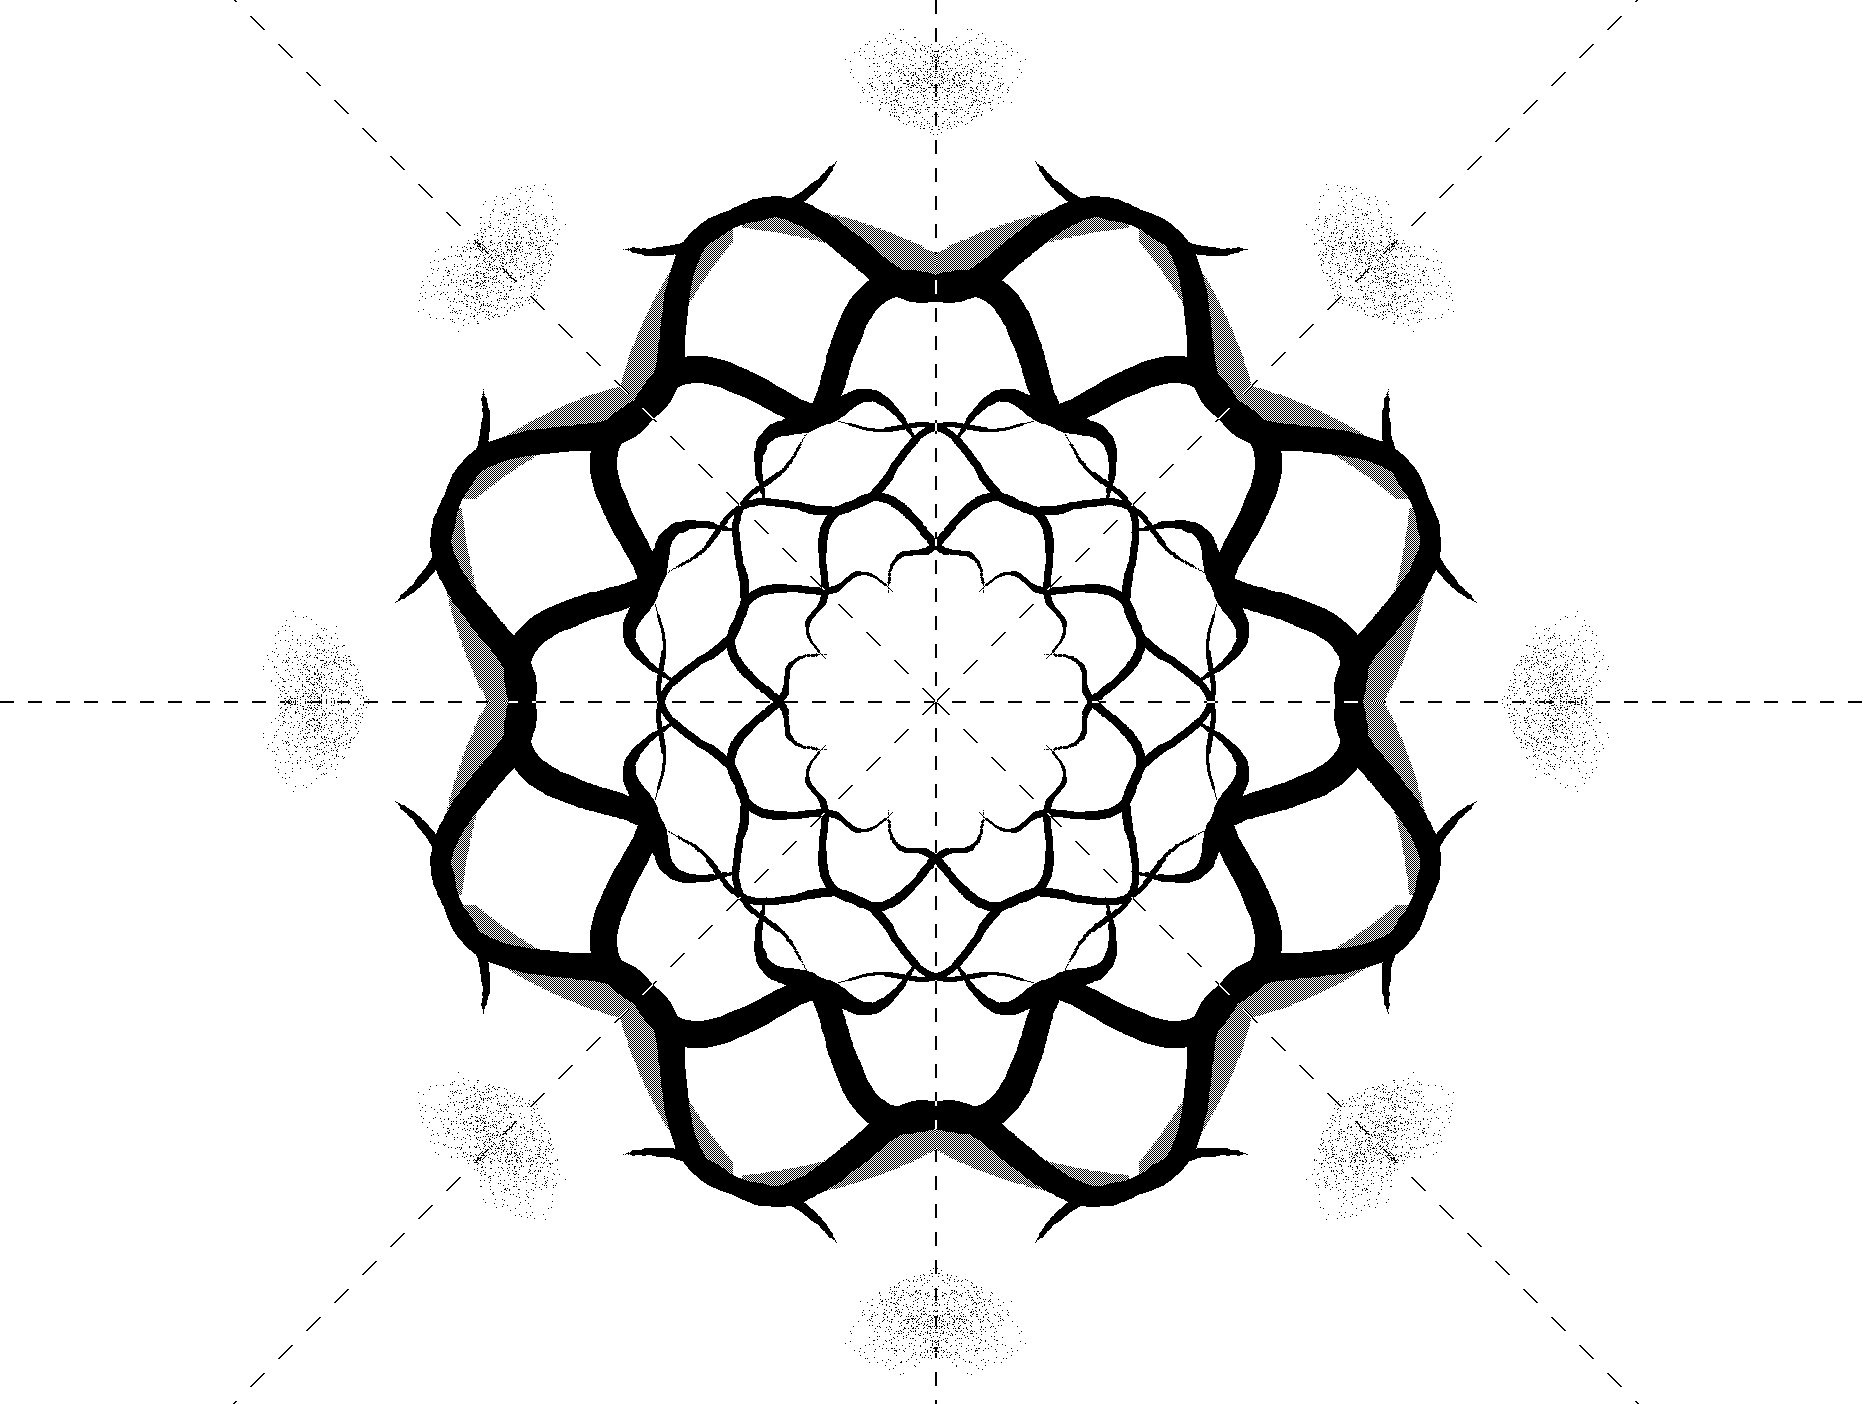
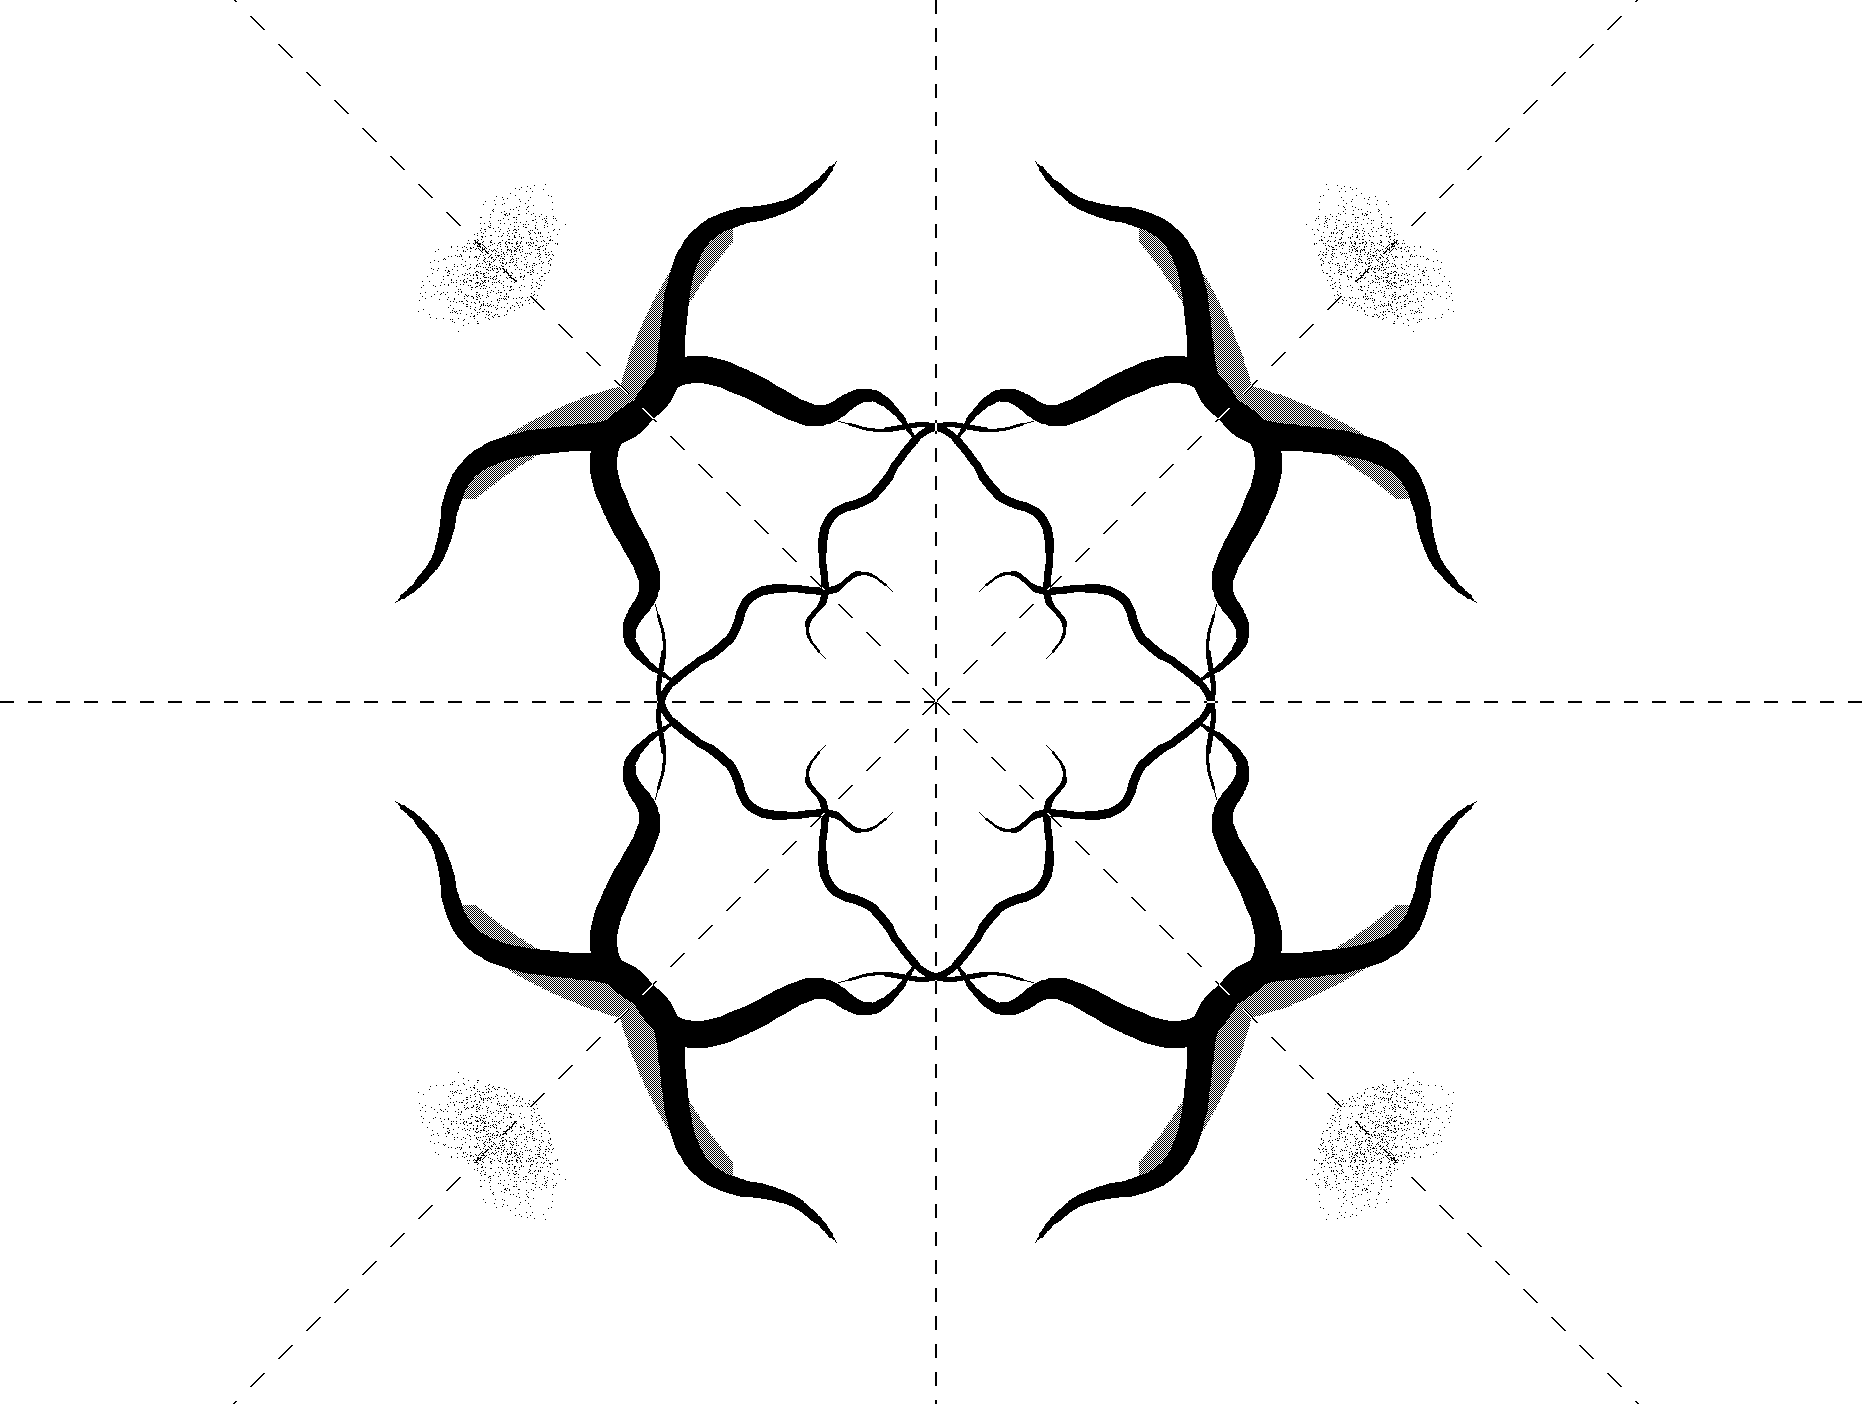
Kaleidoscope: one image in each of the 8 sectors
It drew 16 images (8 turns of 45 degrees, each mirrored), two in every
sector of the guide: a small circle came out twice in its own sector.
Now 4 quarter turns, each mirrored: their mirror lines are the guide's
4 lines, every map is exact (no 45 degree rounding), half the work.

Guard: test_k8_one_per_sector (a point off the lines has exactly one
image per 45 degree sector); seen red on the 16-image code.

diff --git a/test/test_mirror.c b/test/test_mirror.c
@@ -1,6 +1,7 @@
 /* Mirror drawing: the images, one undo step, replay, the screen-only guide, the pushed rectangles, every position of
    the X, the bucket. SPDX-License-Identifier: MIT */
 #include "util.h"
+#include <math.h>
 
 static void settle(rig_t *r)
 {
@@ -83,21 +84,18 @@ static void test_maps(void)
     CHECK(x == 300 && y == TH - 1 - 200);
     mr_map(MR_4, 3, TW, TH, 300, 200, &x, &y);
     CHECK(x == TW - 1 - 300 && y == TH - 1 - 200);
-    for (int img = 0; img < 16; img++) { /* the mirrors are involutions, the quarter turns exact */
+    CHECK(mr_images(MR_K8) == 8);
+    for (int img = 0; img < 8; img++) { /* the mirrors are involutions, the quarter turns exact */
         mr_map(MR_K8, img, TW, TH, 777, 123, &x, &y);
-        if (img == 8) {
+        if (img == 4) {
             mr_map(MR_K8, img, TW, TH, x, y, &x2, &y2);
             CHECK(x2 == 777 && y2 == 123);
         }
-        if (img == 4) {
-            int rx, ry;
-            mr_map(MR_K8, 0, TW, TH, 777, 123, &rx, &ry);
-            CHECK(x == TW - 1 - 777 && y == TH - 1 - 123 && rx == 777); /* 180 degrees */
-        }
+        if (img == 2) CHECK(x == TW - 1 - 777 && y == TH - 1 - 123); /* 180 degrees */
     }
-    int px = 1500, py = 300; /* eight turns of 45 degrees come back (rounding: a pixel or two) */
-    for (int k = 0; k < 8; k++) mr_map(MR_K8, 1, TW, TH, px, py, &px, &py);
-    CHECK(px >= 1497 && px <= 1503 && py >= 297 && py <= 303);
+    int px = 1000, py = 600; /* four quarter turns come back exactly */
+    for (int k = 0; k < 4; k++) mr_map(MR_K8, 1, TW, TH, px, py, &px, &py);
+    CHECK(px == 1000 && py == 600);
 }
 
 static void test_images_exact(void)
@@ -142,11 +140,11 @@ static void test_k8_and_shades(void)
         brush(&r, BR_PEN, sh, 1);
         set_mirror(&r, MR_K8);
         stroke(&r);
-        /* the pen's own points and their 15 images are all inked (the dither only thins it: look about each) */
+        /* the pen's own points and their 7 images are all inked (the dither only thins it: look about each) */
         const hist_t *h = &r.s.hist;
         CHECK(h->st_cur == 1 && h->st[0].n >= 4);
         for (uint32_t i = 0; i < h->st[0].n; i++)
-            for (int img = 0; img < 16; img++) {
+            for (int img = 0; img < mr_images(MR_K8); img++) {
                 int ox, oy, hit = 0;
                 mr_map(MR_K8, img, TW, TH, h->pts[i].x, h->pts[i].y, &ox, &oy);
                 if (ox < 8 || oy < 8 || ox > TW - 9 || oy > TH - 9) continue; /* a turned page is cropped */
@@ -383,9 +381,28 @@ static void test_cursor_and_toolbar(void)
     rig_end(&r);
 }
 
+/* The kaleidoscope's guide cuts the page into 8 sectors of 45 degrees: a point inside one sector has exactly one
+   image in every sector (16 images, 8 turns of 45 degrees and their mirrors, put two in each: a circle came out twice
+   in its own sector, 2026-11-03) */
+static void test_k8_one_per_sector(void)
+{
+    const int offs[][2] = { { 100, 40 }, { 30, 110 }, { -90, 20 }, { 70, -150 } }; /* off the axes and diagonals */
+    for (unsigned o = 0; o < sizeof(offs) / sizeof(offs[0]); o++) {
+        int cnt[8] = { 0 };
+        for (int img = 0; img < mr_images(MR_K8); img++) {
+            int x, y;
+            mr_map(MR_K8, img, TW, TH, (TW - 1) / 2 + offs[o][0], (TH - 1) / 2 + offs[o][1], &x, &y);
+            double a = atan2(2.0 * y - (TH - 1), 2.0 * x - (TW - 1)) * 180.0 / 3.14159265358979;
+            cnt[(int)floor((a < 0 ? a + 360.0 : a) / 45.0) & 7]++;
+        }
+        for (int k = 0; k < 8; k++) CHECK(cnt[k] == 1);
+    }
+}
+
 int main(void)
 {
     test_maps();
+    test_k8_one_per_sector();
     test_images_exact();
     test_k8_and_shades();
     test_undo_replay_png();

diff --git a/src/mirror.c b/src/mirror.c
@@ -9,7 +9,7 @@ const char *mr_name(int mode)
 
 int mr_images(int mode)
 {
-    static const uint8_t n[MR_N] = { 1, 2, 2, 4, 16 };
+    static const uint8_t n[MR_N] = { 1, 2, 2, 4, 8 };
     return n[mode < 0 || mode >= MR_N ? 0 : mode];
 }
 
@@ -24,7 +24,7 @@ void mr_map(int mode, int img, int w, int h, int x, int y, int *ox, int *oy)
     case MR_LR: fx = img & 1; break;
     case MR_TB: fy = img & 1; break;
     case MR_4: fx = img & 1, fy = img >> 1 & 1; break;
-    case MR_K8: fx = img >> 3 & 1, k = img & 7; break;
+    case MR_K8: fx = img >> 2 & 1, k = 2 * (img & 3); break; /* quarter turns, each also mirrored */
     default: break;
     }
     if (fx) u = -u;
@@ -44,8 +44,8 @@ int mr_flips(int mode, int img, int *fx, int *fy)
     case MR_TB: *fy = img & 1; return 1;
     case MR_4: *fx = img & 1, *fy = img >> 1 & 1; return 1;
     case MR_K8: /* no turn, or the half turn (both flips: exact in mr_map's products) */
-        if ((img & 7) != 0 && (img & 7) != 4) return 0;
-        *fx = (img >> 3 & 1) ^ ((img & 7) == 4), *fy = (img & 7) == 4;
+        if ((img & 1) != 0) return 0;
+        *fx = (img >> 2 & 1) ^ ((img & 3) == 2), *fy = (img & 3) == 2;
         return 1;
     default: return 1;
     }
@@ -59,7 +59,7 @@ void mr_map_pts(int mode, int img, int w, int h, int x, int y, const int16_t *dx
     case MR_LR: fx = img & 1; break;
     case MR_TB: fy = img & 1; break;
     case MR_4: fx = img & 1, fy = img >> 1 & 1; break;
-    case MR_K8: fx = img >> 3 & 1, k = img & 7; break;
+    case MR_K8: fx = img >> 2 & 1, k = 2 * (img & 3); break; /* quarter turns, each also mirrored */
     default: break;
     }
     int du = fx ? -2 : 2;

diff --git a/src/mirror.h b/src/mirror.h
@@ -5,12 +5,11 @@
 #define MIRROR_H
 #include "canvas.h"
 
-enum { MR_OFF, MR_LR, MR_TB, MR_4, MR_K8, MR_N }; /* off, left-right, top-bottom, 4-way, kaleidoscope (8 turns + mirror) */
+enum { MR_OFF, MR_LR, MR_TB, MR_4, MR_K8, MR_N }; /* off, left-right, top-bottom, 4-way, kaleidoscope (4 quarter turns + mirror: one image a 45 degree sector) */
 
 const char *mr_name(int mode);
-int mr_images(int mode); /* 1, 2, 2, 4, 16 */
-/* Image `img` (0 is the identity) of the page point (x, y) on a w x h page. Exact for the flips and the quarter turns;
-   the 45 degree turns round to the nearest pixel. The result may lie off the page (a turned page is cropped) */
+int mr_images(int mode); /* 1, 2, 2, 4, 8 */
+/* Image `img` (0 is the identity) of the page point (x, y) on a w x h page. Exact (flips and quarter turns). The result may lie off the page (a turned page is cropped) */
 void mr_map(int mode, int img, int w, int h, int x, int y, int *ox, int *oy);
 /* 1 when image img is only flips (x to w - 1 - x when *fx, y to h - 1 - y when *fy), as mr_map makes it */
 int mr_flips(int mode, int img, int *fx, int *fy);
